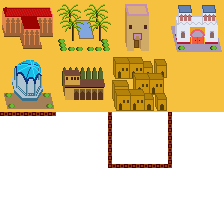
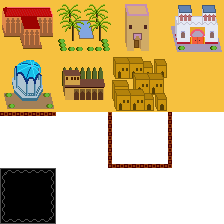
empty reserve image

Changed region(s): [[0.0, 0.75, 0.25, 1.0]]

diff --git a/render.py b/render.py
@@ -18,6 +18,7 @@ class Renderer:
         self.img_pavillon = self.load_image(0, 1)
         self.img_arkaden = self.load_image(1, 1)
         self.img_empty = self.load_image(2, 1)
+        self.img_empty_reserve = self.load_image(0, 3)
 
         self.img_wall_top = self.load_image(0, 2)
         self.img_wall_right = self.load_image(1, 2)
@@ -72,6 +73,8 @@ class Renderer:
         for i in range(0, 4):
             if reserve.cards[i] is not None:
                 self.render_card(window, reserve.cards[i], game.reserve_slots[i].left, game.reserve_slots[i].top)
+            else:
+                window.blit(self.img_empty_reserve, (game.reserve_slots[i].left, game.reserve_slots[i].top))
 
         money = self.font.render(str(stats.money) + "€", True, GREEN)
         window.blit(money, (1040, 630))
